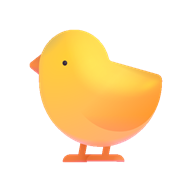
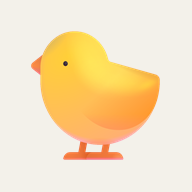
홈 화면 바로가기에 병아리 이모지 아이콘을 다시 넣는다.

diff --git a/index.html b/index.html
@@ -3,8 +3,7 @@
   <head>
     <meta charset="UTF-8" />
     <link rel="icon" type="image/png" sizes="32x32" href="/favicon-32.png" />
-    <link rel="icon" type="image/svg+xml" href="/favicon.svg" />
-    <link rel="apple-touch-icon" href="/apple-touch-icon.png" />
+    <link rel="apple-touch-icon" sizes="180x180" href="/apple-touch-icon.png" />
     <meta
       name="viewport"
       content="width=device-width, initial-scale=1, viewport-fit=cover"

diff --git a/vite.config.ts b/vite.config.ts
@@ -11,9 +11,7 @@ export default defineConfig(({ command }) => ({
     VitePWA({
       registerType: 'autoUpdate',
       includeAssets: [
-        'favicon.svg',
         'favicon-32.png',
-        'icon.svg',
         'apple-touch-icon.png',
         'pwa-192.png',
         'pwa-512.png',
